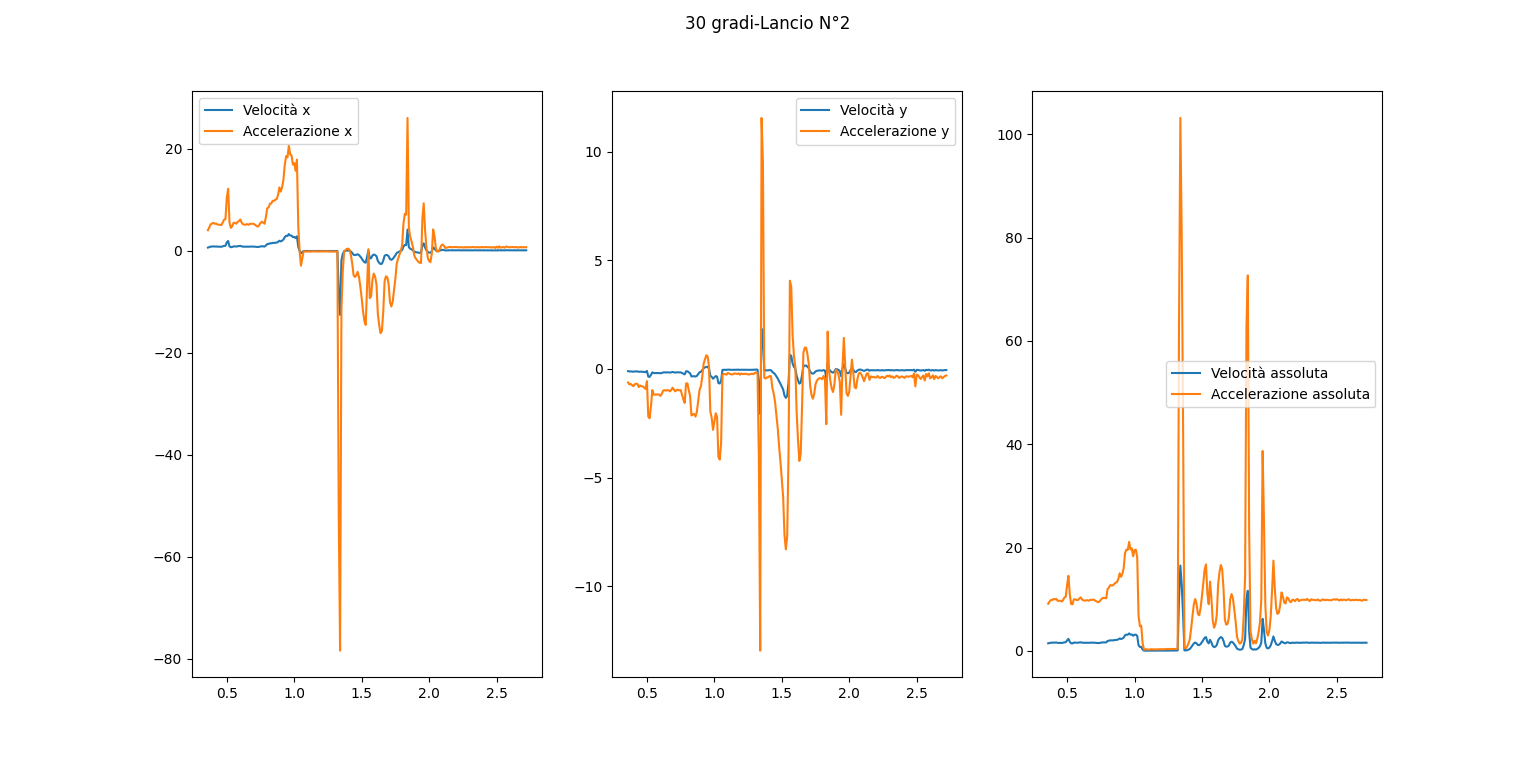
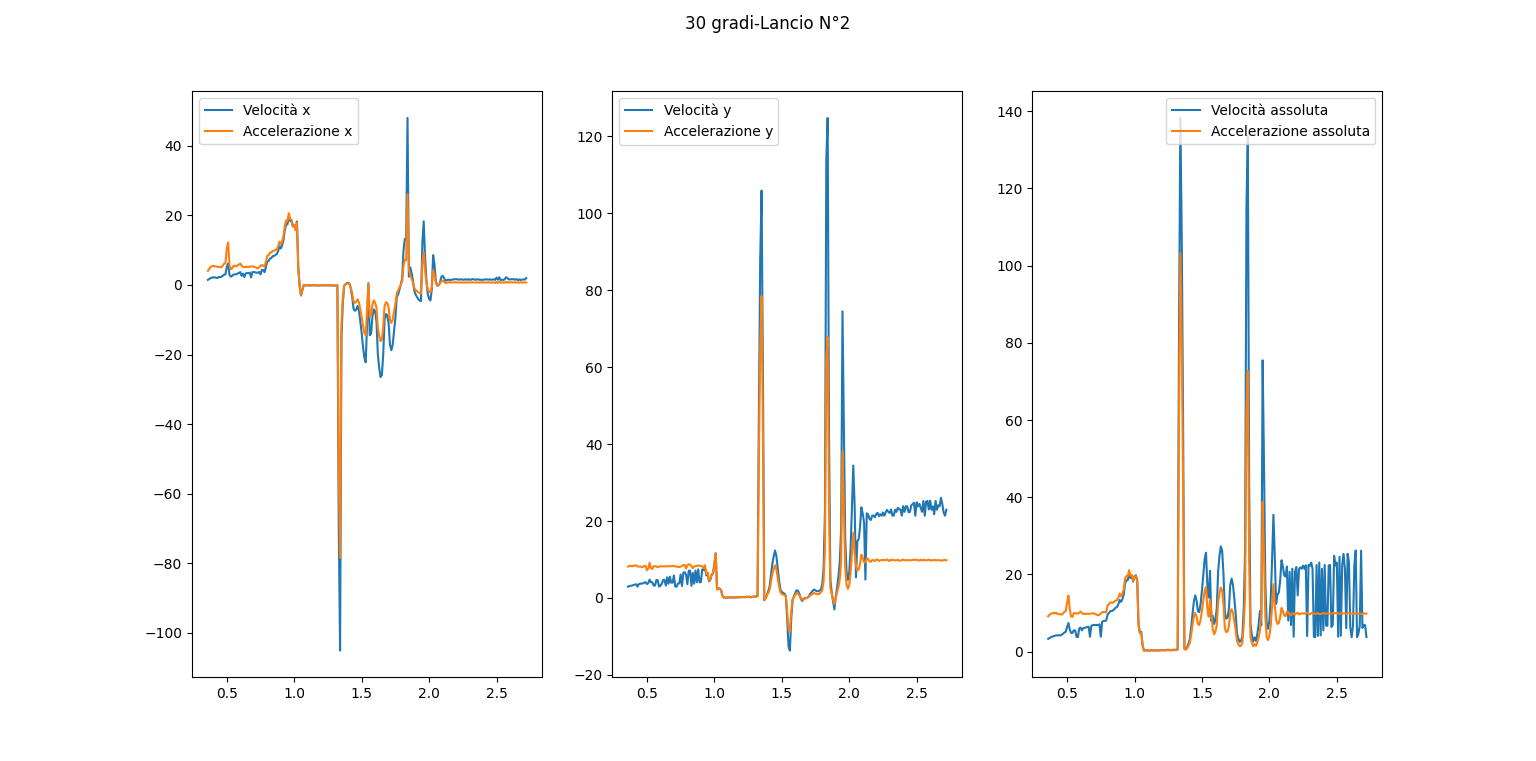
Add files via upload

diff --git a/Fisica/caduta-libera-esperimento/caduta-libera.py b/Fisica/caduta-libera-esperimento/caduta-libera.py
@@ -1,7 +1,13 @@
 import csv
 import matplotlib.pyplot as plt
+import os.path as path
 
-#ESTRATTORE DATI
+
+running_file = path.basename(__file__)
+file_dir = __file__.replace(running_file, '')
+
+
+# ESTRATTORE DATI
 def data(path, column):
     with open(path, 'r') as f:
         datas = list(csv.reader(f))
@@ -14,14 +20,15 @@ def data(path, column):
             counter += 1
         return output
 
-#CALCOLATORE VELOCITA'
-def speed(acceleration, mass):
-    output = []
-    for i in acceleration:
-        output.append(i * mass)
-    return output
+# CALCOLATORE VELOCITA'
 
-#GRAFICI
+
+def speed(acceleration, time):
+    return [i*time[acceleration.index(i)] for i in acceleration]
+
+# GRAFICI
+
+
 def graph(deg, testNum, time, accX, velX, accY, velY, absAcc, absVel):
     fig, (gf1, gf2, gf3) = plt.subplots(nrows=1, ncols=3)
 
@@ -38,99 +45,82 @@ def graph(deg, testNum, time, accX, velX, accY, velY, absAcc, absVel):
     gf3.plot(time, absVel)
     gf3.plot(time, absAcc)
     gf3.legend(['Velocità assoluta', 'Accelerazione assoluta'])
-    
-    plt.savefig(f'./gradi{deg}_{testNum}.png')
+
     plt.show()
 
 
-#DATI
+# DATI
 peso_corpo = 0.16
 
 dati0_1 = {
-    'Tempo': data('./gradi0/dati_1.csv', 1),
-    'Accelerazione x': data('./gradi0/dati_1.csv', 2),
-    'Accelerazione y': data('./gradi0/dati_1.csv', 3),
-    'Accelerazione': data('./gradi0/dati_1.csv', 5),
+    'Tempo': data(file_dir + 'gradi0/dati_1.csv', 1),
+    'Accelerazione x': data(file_dir + 'gradi0/dati_1.csv', 2),
+    'Accelerazione y': data(file_dir + 'gradi0/dati_1.csv', 4),
+    'Accelerazione': data(file_dir + 'gradi0/dati_1.csv', 5),
 }
-dati0_1['Velocità x'] = speed(dati0_1['Accelerazione x'], peso_corpo)
-dati0_1['Velocità y'] = speed(dati0_1['Accelerazione y'], peso_corpo)
-dati0_1['Velocità'] = speed(dati0_1['Accelerazione'], peso_corpo)
+dati0_1['Velocità x'] = speed(dati0_1['Accelerazione x'], dati0_1['Tempo'])
+dati0_1['Velocità y'] = speed(dati0_1['Accelerazione y'], dati0_1['Tempo'])
+dati0_1['Velocità'] = speed(dati0_1['Accelerazione'], dati0_1['Tempo'])
 
 dati0_2 = {
-    'Tempo': data('./gradi0/dati_2.csv', 1),
-    'Accelerazione x': data('./gradi0/dati_2.csv', 2),
-    'Accelerazione y': data('./gradi0/dati_2.csv', 3),
-    'Accelerazione': data('./gradi0/dati_2.csv', 5)
+    'Tempo': data(file_dir + 'gradi0/dati_2.csv', 1),
+    'Accelerazione x': data(file_dir + 'gradi0/dati_2.csv', 2),
+    'Accelerazione y': data(file_dir + 'gradi0/dati_2.csv', 4),
+    'Accelerazione': data(file_dir + 'gradi0/dati_2.csv', 5)
 }
-dati0_2['Velocità x'] = speed(dati0_2['Accelerazione x'], peso_corpo)
-dati0_2['Velocità y'] = speed(dati0_2['Accelerazione y'], peso_corpo)
-dati0_2['Velocità'] = speed(dati0_2['Accelerazione'], peso_corpo)
+dati0_2['Velocità x'] = speed(dati0_2['Accelerazione x'], dati0_2['Tempo'])
+dati0_2['Velocità y'] = speed(dati0_2['Accelerazione y'], dati0_2['Tempo'])
+dati0_2['Velocità'] = speed(dati0_2['Accelerazione'], dati0_2['Tempo'])
 
 dati30_1 = {
-    'Tempo': data('./gradi30/dati_1.csv', 1),
-    'Accelerazione x': data('./gradi30/dati_1.csv', 2),
-    'Accelerazione y': data('./gradi30/dati_1.csv', 3),
-    'Accelerazione': data('./gradi30/dati_1.csv', 5)
+    'Tempo': data(file_dir + 'gradi30/dati_1.csv', 1),
+    'Accelerazione x': data(file_dir + 'gradi30/dati_1.csv', 2),
+    'Accelerazione y': data(file_dir + 'gradi30/dati_1.csv', 4),
+    'Accelerazione': data(file_dir + 'gradi30/dati_1.csv', 5)
 }
-dati30_1['Velocità x'] = speed(dati30_1['Accelerazione x'], peso_corpo)
-dati30_1['Velocità y'] = speed(dati30_1['Accelerazione y'], peso_corpo)
-dati30_1['Velocità'] = speed(dati30_1['Accelerazione'], peso_corpo)
+dati30_1['Velocità x'] = speed(dati30_1['Accelerazione x'], dati30_1['Tempo'])
+dati30_1['Velocità y'] = speed(dati30_1['Accelerazione y'], dati30_1['Tempo'])
+dati30_1['Velocità'] = speed(dati30_1['Accelerazione'], dati30_1['Tempo'])
 
 dati30_2 = {
-    'Tempo': data('./gradi30/dati_2.csv', 1),
-    'Accelerazione x': data('./gradi30/dati_2.csv', 2),
-    'Accelerazione y': data('./gradi30/dati_2.csv', 3),
-    'Accelerazione': data('./gradi30/dati_2.csv', 5)
+    'Tempo': data(file_dir + 'gradi30/dati_2.csv', 1),
+    'Accelerazione x': data(file_dir + 'gradi30/dati_2.csv', 2),
+    'Accelerazione y': data(file_dir + 'gradi30/dati_2.csv', 4),
+    'Accelerazione': data(file_dir + 'gradi30/dati_2.csv', 5)
 }
-dati30_2['Velocità x'] = speed(dati30_2['Accelerazione x'], peso_corpo)
-dati30_2['Velocità y'] = speed(dati30_2['Accelerazione y'], peso_corpo)
-dati30_2['Velocità'] = speed(dati30_2['Accelerazione'], peso_corpo)
+dati30_2['Velocità x'] = speed(dati30_2['Accelerazione x'], dati30_2['Tempo'])
+dati30_2['Velocità y'] = speed(dati30_2['Accelerazione y'], dati30_2['Tempo'])
+dati30_2['Velocità'] = speed(dati30_2['Accelerazione'], dati30_2['Tempo'])
 
 scelta_gradi = input('Scegli tra 0 gradi o 30 gradi: ')
 scelta_lancio = input('Scegli il lancio tra 1 e 2: ')
 
+# OUTPUT
 if str(scelta_gradi) == '0':
     if str(scelta_lancio) == '1':
-        graph(scelta_gradi, scelta_lancio, dati0_1['Tempo'], dati0_1['Accelerazione x'], dati0_1['Velocità x'], dati0_1['Accelerazione y'], dati0_1['Velocità y'], dati0_1['Accelerazione'], dati0_1['Velocità'])
-        print('Intervallo di tempo: ' + dati0_1['Tempo'][-1]-dati0_1['Tempo'][0])
-        print('Differenza di velocità x: ' + dati0_1['Velocità x'][-1]-dati0_1['Velocità x'][0])
-        print('Differenza di velocità y: ' + dati0_1['Velocità y'][-1]-dati0_1['Velocità y'][0])
-        print('Differenza di velocità assoluta: ' + dati0_1['Velocità'][-1]-dati0_1['Velocità'][0])
-        print('Differenza di accelerazione x: ' + dati0_1['Accelerazione x'][-1]-dati0_1['Accelerazione x'][0])
-        print('Differenza di accelerazione y: ' + dati0_1['Accelerazione y'][-1]-dati0_1['Velocità y'][0])
-        print('Differenza di accelerazione assoluta: ' + dati0_1['Accelerazione'][-1]-dati0_1['Accelerazione'][0])
+        print('Velocità iniziale: ' + str(dati0_1['Accelerazione x'][0]*dati0_1['Tempo'][0]) + 'm/s')
 
+        graph(scelta_gradi, scelta_lancio, dati0_1['Tempo'], dati0_1['Accelerazione x'], dati0_1['Velocità x'],
+              dati0_1['Accelerazione y'], dati0_1['Velocità y'], dati0_1['Accelerazione'], dati0_1['Velocità'])
     elif str(scelta_lancio) == '2':
-        graph(scelta_gradi, scelta_lancio, dati0_2['Tempo'], dati0_2['Accelerazione x'], dati0_2['Velocità x'], dati0_2['Accelerazione y'], dati0_2['Velocità y'], dati0_2['Accelerazione'], dati0_2['Velocità'])
-        print('Intervallo di tempo: ' + dati0_2['Tempo'][-1]-dati0_2['Tempo'][0])
-        print('Differenza di velocità x: ' + dati0_2['Velocità x'][-1]-dati0_2['Velocità x'][0])
-        print('Differenza di velocità y: ' + dati0_2['Velocità y'][-1]-dati0_2['Velocità y'][0])
-        print('Differenza di velocità assoluta: ' + dati0_2['Velocità'][-1]-dati0_2['Velocità'][0])
-        print('Differenza di accelerazione x: ' + dati0_2['Accelerazione x'][-1]-dati0_2['Accelerazione x'][0])
-        print('Differenza di accelerazione y: ' + dati0_2['Accelerazione y'][-1]-dati0_2['Velocità y'][0])
-        print('Differenza di accelerazione assoluta: ' + dati0_2['Accelerazione'][-1]-dati0_2['Accelerazione'][0])
-    
-    else: print(f'{scelta_lancio} non è un\'opzione')
+        print('Velocità iniziale: ' + str(dati0_2['Accelerazione x'][0]*dati0_2['Tempo'][0]) + 'm/s')
+
+        graph(scelta_gradi, scelta_lancio, dati0_2['Tempo'], dati0_2['Accelerazione x'], dati0_2['Velocità x'],
+              dati0_2['Accelerazione y'], dati0_2['Velocità y'], dati0_2['Accelerazione'], dati0_2['Velocità'])
+    else:
+        print(f'{scelta_lancio} non è un\'opzione')
 elif str(scelta_gradi) == '30':
     if str(scelta_lancio) == '1':
-        graph(scelta_gradi, scelta_lancio, dati30_1['Tempo'], dati30_1['Accelerazione x'], dati30_1['Velocità x'], dati30_1['Accelerazione y'], dati30_1['Velocità y'], dati30_1['Accelerazione'], dati30_1['Velocità'])
-        print('Intervallo di tempo: ' + dati30_1['Tempo'][-1]-dati30_1['Tempo'][0])
-        print('Differenza di velocità x: ' + dati30_1['Velocità x'][-1]-dati30_1['Velocità x'][0])
-        print('Differenza di velocità y: ' + dati30_1['Velocità y'][-1]-dati30_1['Velocità y'][0])
-        print('Differenza di velocità assoluta: ' + dati30_1['Velocità'][-1]-dati30_1['Velocità'][0])
-        print('Differenza di accelerazione x: ' + dati30_1['Accelerazione x'][-1]-dati30_1['Accelerazione x'][0])
-        print('Differenza di accelerazione y: ' + dati30_1['Accelerazione y'][-1]-dati30_1['Velocità y'][0])
-        print('Differenza di accelerazione assoluta: ' + dati30_1['Accelerazione'][-1]-dati30_1['Accelerazione'][0])
+        print('Velocità iniziale: ' + str(dati30_1['Accelerazione x'][0]*dati30_1['Tempo'][0]) + 'm/s')
 
+        graph(scelta_gradi, scelta_lancio, dati30_1['Tempo'], dati30_1['Accelerazione x'], dati30_1['Velocità x'],
+              dati30_1['Accelerazione y'], dati30_1['Velocità y'], dati30_1['Accelerazione'], dati30_1['Velocità'])
     elif str(scelta_lancio) == '2':
-        graph(scelta_gradi, scelta_lancio, dati30_2['Tempo'], dati30_2['Accelerazione x'], dati30_2['Velocità x'], dati30_2['Accelerazione y'], dati30_2['Velocità y'], dati30_2['Accelerazione'], dati30_2['Velocità'])
-        print('Intervallo di tempo: ' + dati30_2['Tempo'][-1]-dati30_2['Tempo'][0])
-        print('Differenza di velocità x: ' + dati30_2['Velocità x'][-1]-dati30_2['Velocità x'][0])
-        print('Differenza di velocità y: ' + dati30_2['Velocità y'][-1]-dati30_2['Velocità y'][0])
-        print('Differenza di velocità assoluta: ' + dati30_2['Velocità'][-1]-dati30_2['Velocità'][0])
-        print('Differenza di accelerazione x: ' + dati30_2['Accelerazione x'][-1]-dati30_2['Accelerazione x'][0])
-        print('Differenza di accelerazione y: ' + dati30_2['Accelerazione y'][-1]-dati30_2['Velocità y'][0])
-        print('Differenza di accelerazione assoluta: ' + dati30_2['Accelerazione'][-1]-dati30_2['Accelerazione'][0])
-    
-    else: print(f'{scelta_lancio} non è un\'opzione')
-else: print(f'{scelta_gradi} non è un\'opzione')
+        print('Velocità iniziale: ' + str(dati30_2['Accelerazione x'][0]*dati30_2['Tempo'][0]) + 'm/s')
+
+        graph(scelta_gradi, scelta_lancio, dati30_2['Tempo'], dati30_2['Accelerazione x'], dati30_2['Velocità x'],
+              dati30_2['Accelerazione y'], dati30_2['Velocità y'], dati30_2['Accelerazione'], dati30_2['Velocità'])
+    else:
+        print(f'{scelta_lancio} non è un\'opzione')
+else:
+    print(f'{scelta_gradi} non è un\'opzione')
